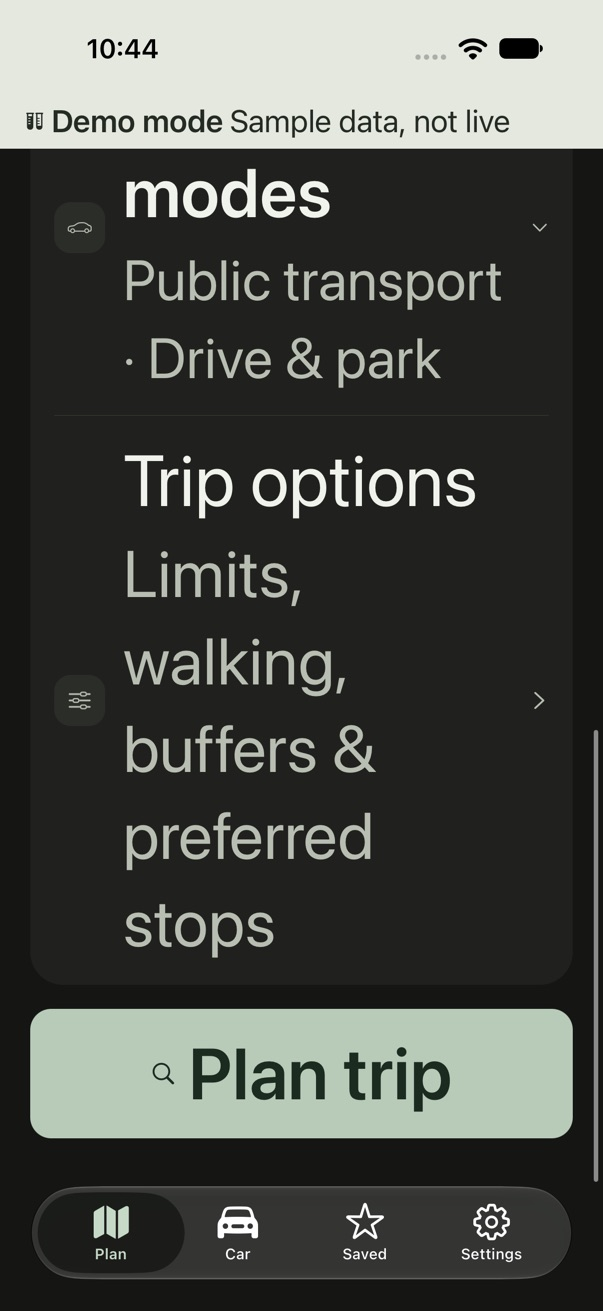
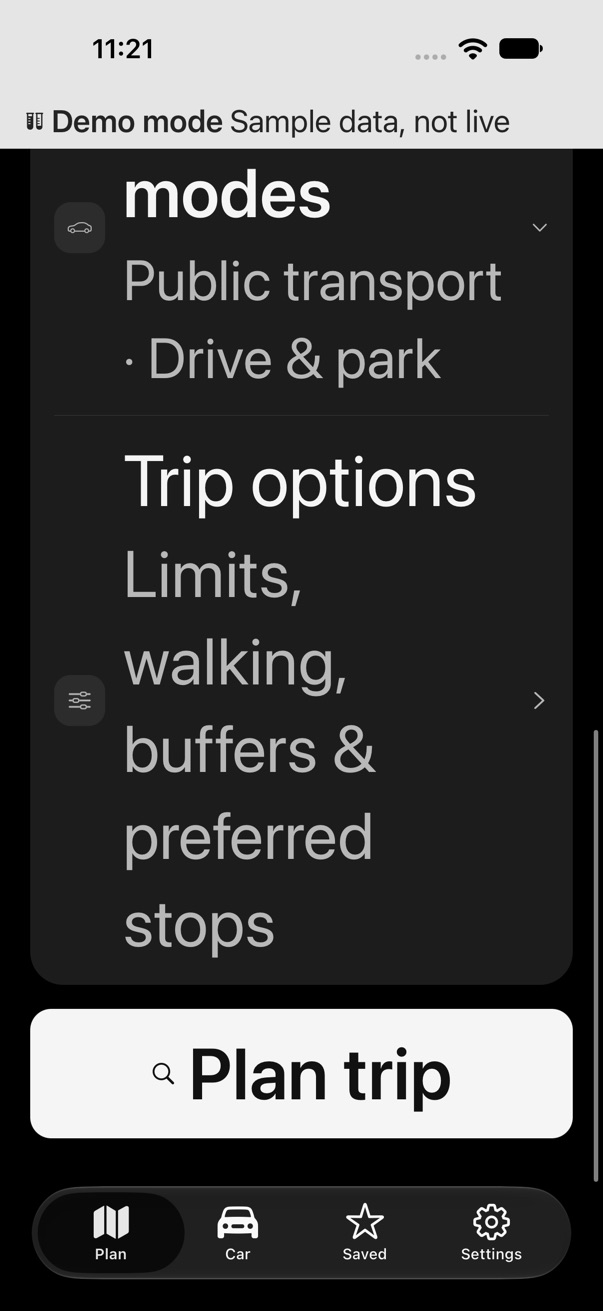
fix: use monochrome app surfaces

Changed region(s): [[0.0299, 0.7628, 0.9552, 0.8848], [0.1493, 0.0305, 0.2687, 0.061], [0.1493, 0.9153, 0.209, 0.9458]]

diff --git a/apps/mobile/src/theme/colours.ts b/apps/mobile/src/theme/colours.ts
@@ -40,65 +40,65 @@ export interface ColourTokens {
 }
 
 // Shared with the icon and launch screen (scripts/generate-brand-assets.mjs).
-export const BRAND_COLOUR = '#3D6650';
-export const BRAND_COLOUR_DARK_BACKGROUND = '#151614';
+export const BRAND_COLOUR = '#1C1C1C';
+export const BRAND_COLOUR_DARK_BACKGROUND = '#000000';
 
 export const lightColours: ColourTokens = {
-  background: '#F6F6F4',
+  background: '#F5F5F5',
   surface: '#FFFFFF',
-  surfaceMuted: '#ECEDE9',
-  separator: '#DFE1DB',
-  border: '#7C837B',
-  text: '#242823',
-  textSecondary: '#596157',
+  surfaceMuted: '#EBEBEB',
+  separator: '#DCDCDC',
+  border: '#808080',
+  text: '#1C1C1C',
+  textSecondary: '#5C5C5C',
   brand: BRAND_COLOUR,
   onBrand: '#FFFFFF',
-  brandSoft: '#EEF2EB',
-  onBrandSoft: '#31513F',
+  brandSoft: '#EBEBEB',
+  onBrandSoft: '#242424',
   danger: '#B42318',
   onDanger: '#FFFFFF',
   dangerSoft: '#FDECEA',
   onDangerSoft: '#8A1C12',
   warningSoft: '#FFF3D1',
   onWarningSoft: '#6B4400',
-  infoSoft: '#EEF0EB',
-  onInfoSoft: '#3D4C3E',
+  infoSoft: '#EBEBEB',
+  onInfoSoft: '#383838',
   successSoft: '#E2F2E6',
   onSuccessSoft: '#1C5E31',
-  demo: '#34382F',
+  demo: '#383838',
   onDemo: '#FFFFFF',
-  skeleton: '#E3E5DE',
+  skeleton: '#E3E3E3',
   markerFill: BRAND_COLOUR,
   onMarker: '#FFFFFF',
   markerRing: '#FFFFFF',
 };
 
 export const darkColours: ColourTokens = {
-  background: '#151614',
-  surface: '#20211E',
-  surfaceMuted: '#2B2D28',
-  separator: '#393C35',
-  border: '#899184',
-  text: '#F0F2EC',
-  textSecondary: '#B8BEB2',
-  brand: '#B8CBB9',
-  onBrand: '#1B2B20',
-  brandSoft: '#2E3B2F',
-  onBrandSoft: '#DAE5D6',
+  background: '#000000',
+  surface: '#1C1C1C',
+  surfaceMuted: '#2C2C2C',
+  separator: '#383838',
+  border: '#8E8E8E',
+  text: '#F5F5F5',
+  textSecondary: '#B8B8B8',
+  brand: '#F5F5F5',
+  onBrand: '#111111',
+  brandSoft: '#2C2C2C',
+  onBrandSoft: '#F2F2F2',
   danger: '#FFB4A9',
   onDanger: '#5C120B',
   dangerSoft: '#3D1714',
   onDangerSoft: '#FFC9C1',
   warningSoft: '#3A2E0C',
   onWarningSoft: '#FFD88A',
-  infoSoft: '#2B3029',
-  onInfoSoft: '#D8E1D2',
+  infoSoft: '#2C2C2C',
+  onInfoSoft: '#E5E5E5',
   successSoft: '#15321F',
   onSuccessSoft: '#AEE3BC',
-  demo: '#E4E8DF',
-  onDemo: '#242B23',
-  skeleton: '#30332C',
-  markerFill: '#B8CBB9',
-  onMarker: '#1B2B20',
-  markerRing: '#20211E',
+  demo: '#E5E5E5',
+  onDemo: '#242424',
+  skeleton: '#303030',
+  markerFill: '#F5F5F5',
+  onMarker: '#111111',
+  markerRing: '#1C1C1C',
 };

diff --git a/apps/mobile/app.config.ts b/apps/mobile/app.config.ts
@@ -7,8 +7,8 @@ const LOCATION_PURPOSE =
   'HopReady uses your location to start trips from where you are, to show where you are on its maps, and to list nearby places first when you search.';
 
 // Matches the continuous-route icon and the in-app brand tokens.
-const SPLASH_BACKGROUND = '#F6F6F4';
-const SPLASH_BACKGROUND_DARK = '#151614';
+const SPLASH_BACKGROUND = '#F5F5F5';
+const SPLASH_BACKGROUND_DARK = '#000000';
 
 const DEFAULT_PRIVACY_POLICY_URL = 'https://mehul72.github.io/hopready/privacy/';
 const DEFAULT_SUPPORT_URL = 'https://mehul72.github.io/hopready/support/';

diff --git a/docs/plans/airport-response-and-monochrome.md b/docs/plans/airport-response-and-monochrome.md
@@ -1,0 +1,47 @@
+# Plan: airport journeys and monochrome appearance
+
+Status: in progress
+Branch: feat/rebrand
+
+## Goal
+
+Restore the missing public transport and drive-and-park options reported for Kellyville to Sydney Airport T1, and remove the green tint from the interface. Deliver the tested correction through the existing API and TestFlight release process.
+
+## Decisions
+
+- Reproduce the reported journey against the deployed API and the real TfNSW response before changing response handling.
+- Use neutral white, grey and black surfaces and controls in both appearances. Preserve semantic transport and warning colours.
+- Keep all trip functionality and existing navigation.
+- The owner's existing permission to commit, push and publish applies to this correction.
+
+## Out of scope
+
+New routing strategies, new providers, public App Store release and tester access changes.
+
+## Steps
+
+- [x] 1. Prove the response failure and fix it with a regression test.
+      done when: the regression fails before the fix, passes afterwards, and the reported real response maps into usable journeys.
+- [x] 2. Replace tinted surfaces and artwork with a monochrome treatment.
+      done when: contrast tests pass and both appearances are inspected in the native app.
+- [x] 3. Run full checks, deploy and verify the live journey.
+      done when: repository checks pass, the deployed API returns transit and drive-and-park options for the reported trip, and existing control trips remain valid.
+- [ ] 4. Commit, push and publish the corrected app.
+      done when: CI passes and Apple confirms the exact new build is valid and in internal beta testing.
+
+## Log
+
+- 2026-11-01: The screenshots show both transit-based strategies failing with an unreadable-provider-response message. The owner also rejected the green cast of the dark surfaces and information banners.
+
+- 2026-11-01: Reproduced both missing transit strategies on the deployed API. All four returned journeys passed the wire schema but failed mapping because the airport short name was `, Platform 2`. Removing that short name in an isolated experiment restored all four journeys. Three regression cases failed before the fix; all 39 transit tests pass after falling back to the full station name and separating platform labels before a locality. The unmodified real response now maps all four journeys with no dropped entries.
+
+## API rollout
+
+- Existing TestFlight builds use the staging Worker. This is a read-only mapping correction with no schema or stored-data changes.
+- Advance when the reported airport trip returns transit-only and park-and-ride options without malformed-response notices, and the Kellyville-to-Central control trip still works.
+- Hold on any provider failure or unexpected strategy loss. Roll back on a new response-validation failure or server error in either trip.
+- Previous Worker version: `c0621b2d-2b91-46ce-8084-5d4290d7725b`. Rollback command from `apps/api`: `pnpm exec wrangler rollback c0621b2d-2b91-46ce-8084-5d4290d7725b --env staging --message 'Revert airport name parsing'`. Uses the existing Keychain credentials. Verify health and the control trip afterwards. No data repair is needed.
+
+- 2026-11-01: Full `pnpm check` passed (325 core, 332 API, 731 mobile tests; eight credential-gated live tests skipped). Deployed API fix `6c8ef5c` to the TestFlight API, Worker `fa88cec2-8250-494d-a88d-346d2a702e5f`. A fresh plan from the reported address to Airport T1 returned ten options across drive-only, transit-only and park-and-ride with no unavailable strategies. Kellyville Station to Central also returned ten options across all three strategies with no provider failures. Health reports all providers configured.
+
+- 2026-11-01: Native build, light and dark main-screen journeys, and maximum-text dark planner check all passed. Inspected both planners and results plus light Settings; backgrounds, cards, information badges and controls are monochrome. Refreshed the nine light captures and four large-text captures, and added dark planner/results references. Restored simulator defaults.

diff --git a/apps/mobile/README.md b/apps/mobile/README.md
@@ -72,7 +72,7 @@ The Plan tab starts with a compact heading, From and To, quick picks and Plan tr
 
 Saved keeps Home and Work visible and groups favourite places, routes, recent searches and parking spots into expandable lists. Settings groups navigation app choices, About and Your data into expandable rows. The four native tabs remain Plan, Car, Saved and Settings.
 
-The muted-green route mark, neutral launch screens and off-white icon are generated together with `node apps/mobile/scripts/generate-brand-assets.mjs`. UI colours are in `src/theme/colours.ts`: white and soft grey in light mode, neutral charcoal in dark mode, with green reserved for actions and selection. Both appearances follow the phone and have automated contrast checks.
+The monochrome route mark, neutral launch screens and white icon are generated together with `node apps/mobile/scripts/generate-brand-assets.mjs`. UI colours are in `src/theme/colours.ts`: white and grey in light mode, black and grey in dark mode, with monochrome actions and selection. Colour identifies transport modes, warnings and status. Both appearances follow the phone and have automated contrast checks.
 
 ### Components
 

diff --git a/docs/testing.md b/docs/testing.md
@@ -74,6 +74,8 @@ Maestro is not used. Installing it was refused by the permission policy in the s
 
 ## Large text and dark appearance
 
+Reference captures include the [light planner](screenshots/01-plan.jpg), [dark planner](screenshots/dark/01-plan.jpg) and [dark results](screenshots/dark/02-results.jpg). They use the monochrome appearance introduced on 2026-11-01.
+
 `HopReadyAccessibilityTests` opens the timing and travel disclosures and checks the main action is reachable. Run it at the largest text size in dark appearance, inspect its four kept screenshots, then restore the simulator defaults:
 
 ```sh
